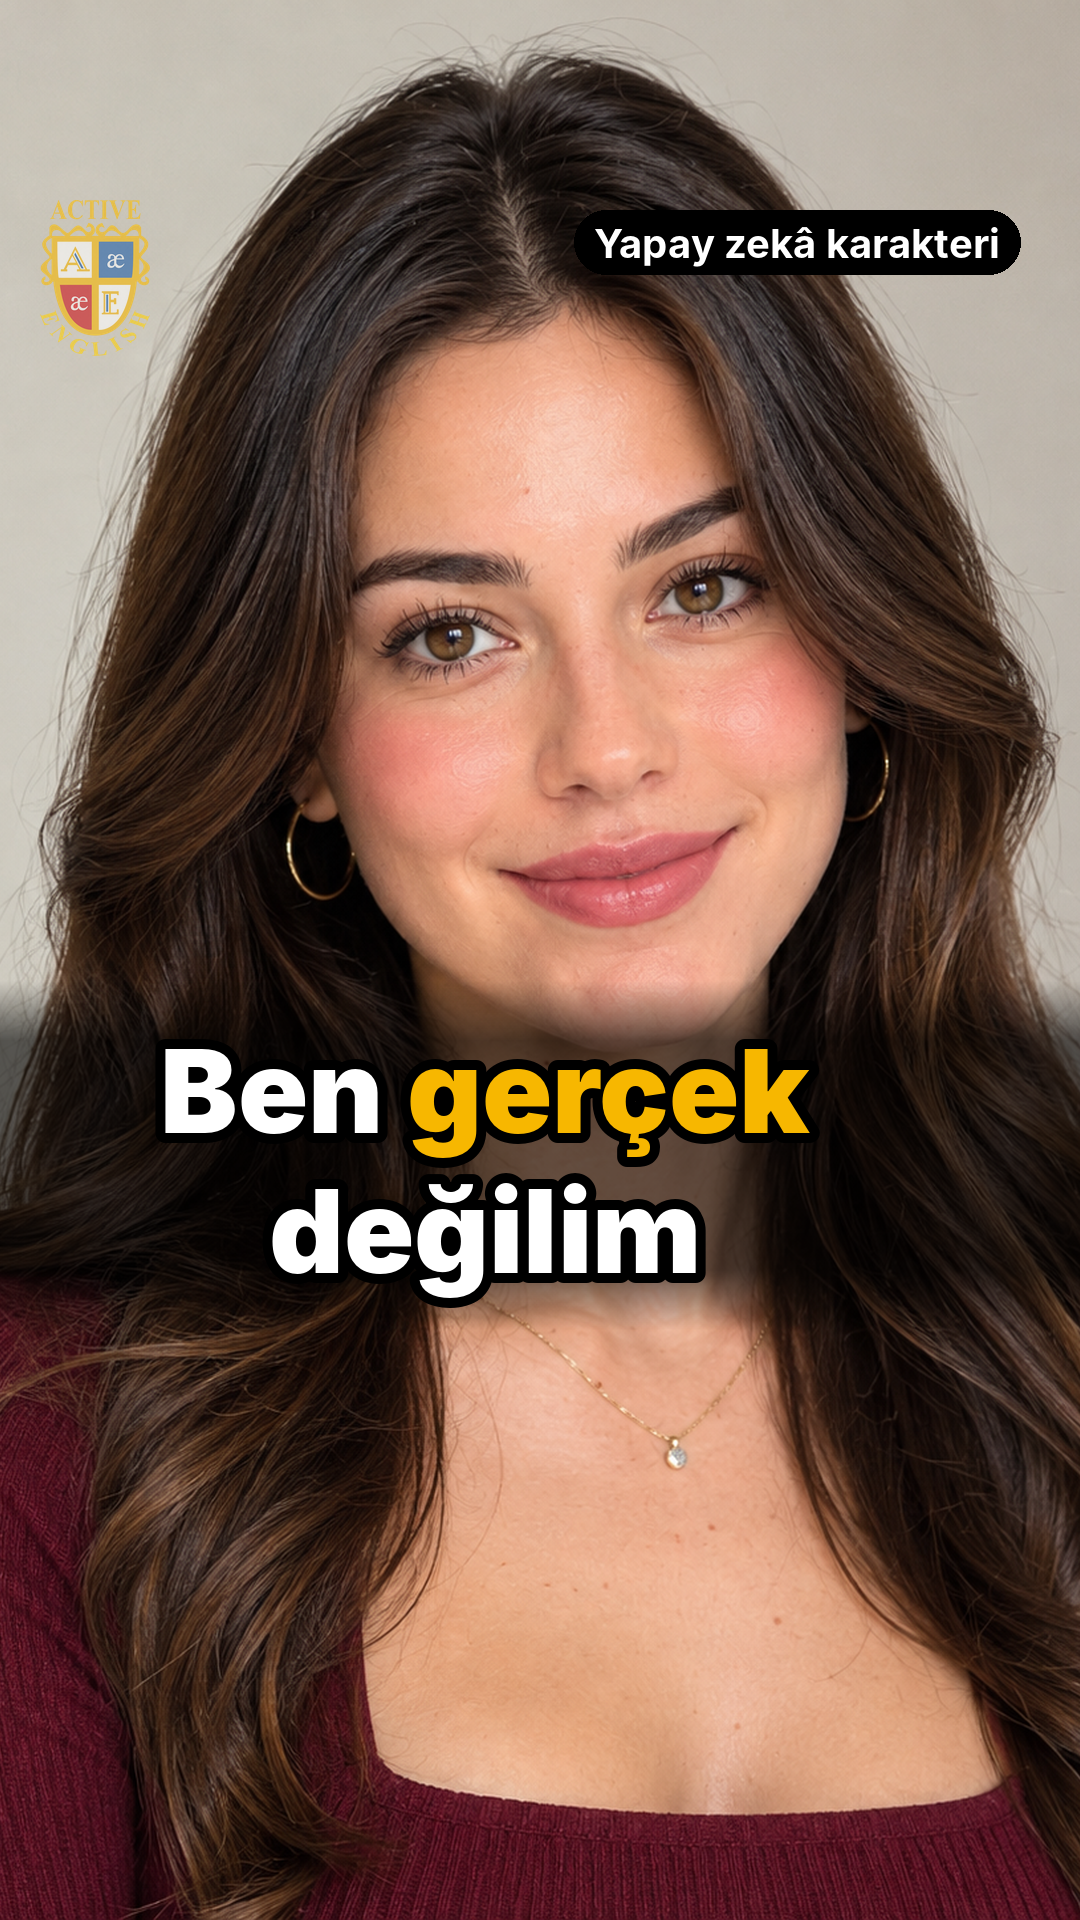
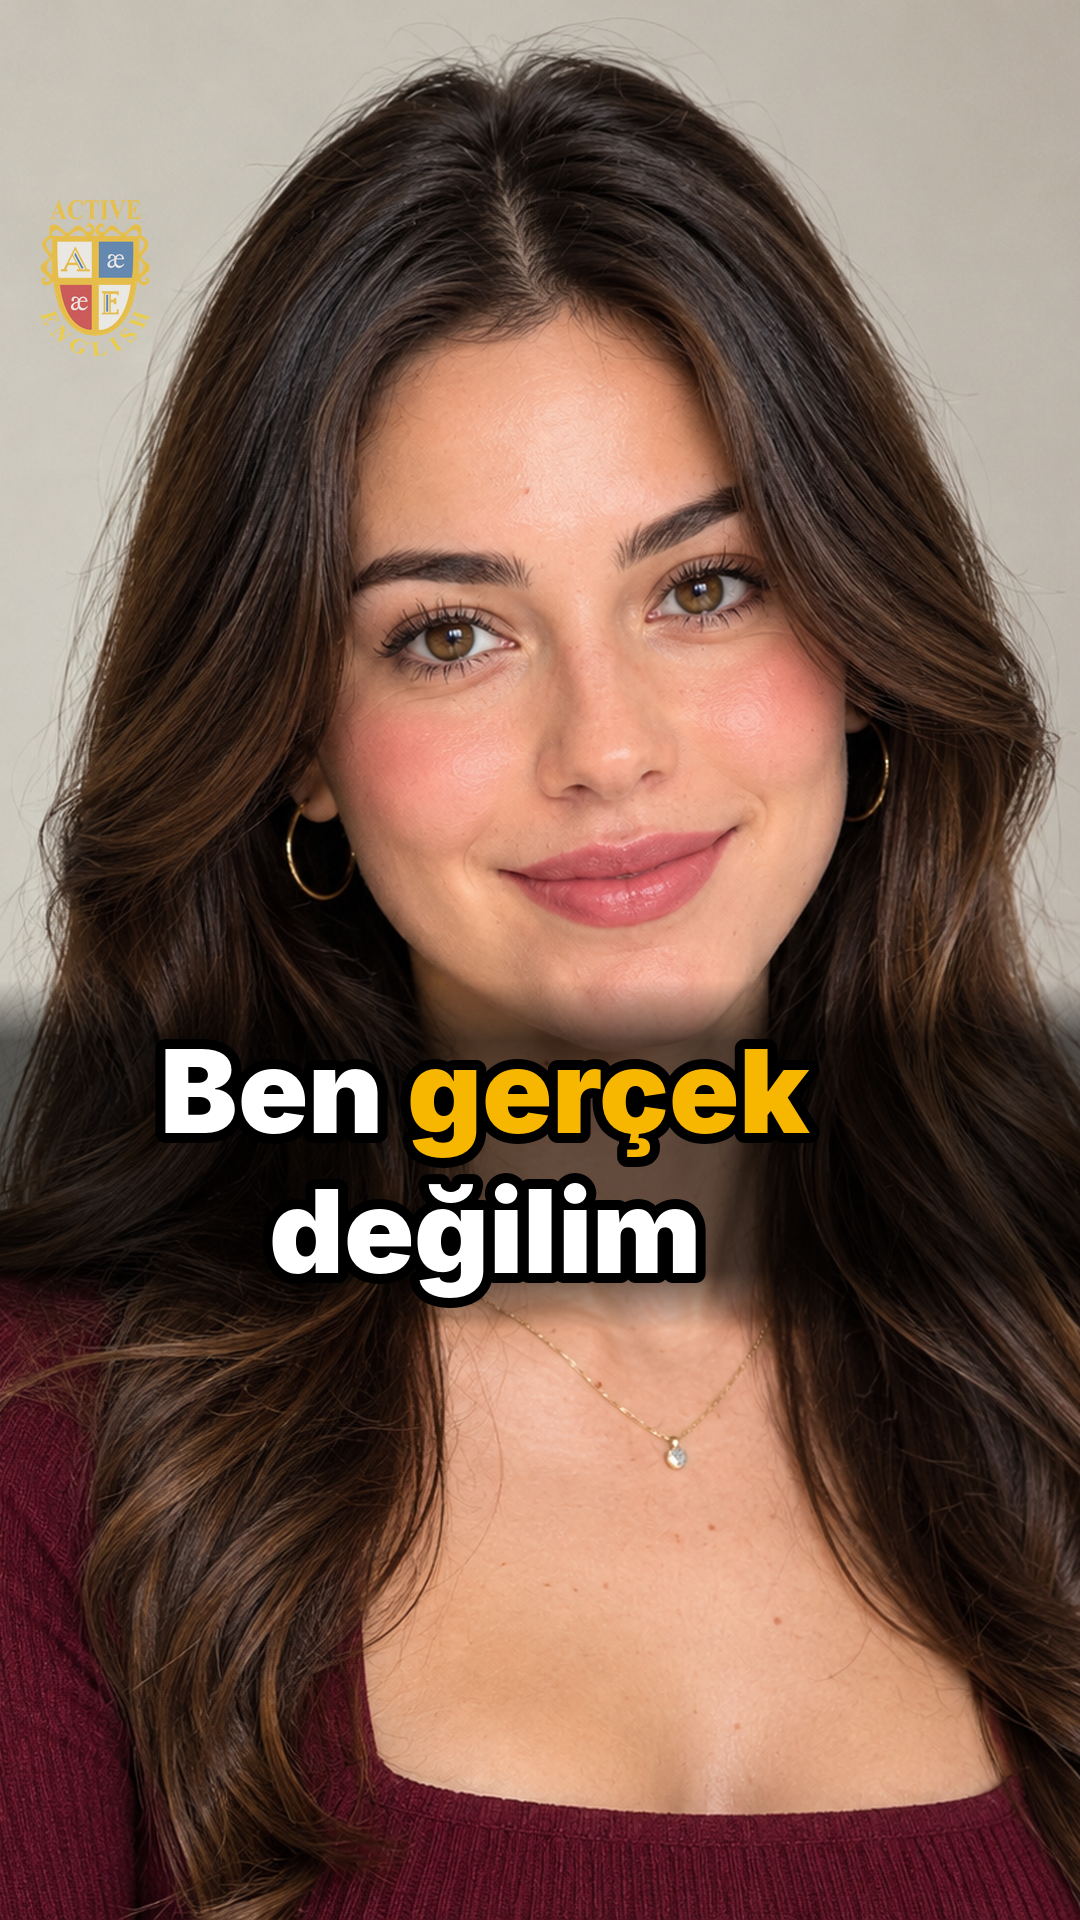
Kapaktan yapay zekâ rozetini kaldır
Claude-Session: https://claude.ai/code/session_0135naBdafeis2ns5kSmYFgu

Changed region(s): [[0.5194, 0.0938, 0.9472, 0.1562]]

diff --git a/videolar/01-zeynep-ben-gercek-degilim/senaryo.md b/videolar/01-zeynep-ben-gercek-degilim/senaryo.md
@@ -10,12 +10,12 @@
 - **A)** Ekran: "Ben gerçek değilim 🤖" / Söz: "Ben gerçek değilim."
 - **B)** Ekran: "'I am agree' diyorsan dur ✋" / Söz: "'I am agree' diyorsan, bu video senin için."
 - **C)** Ekran: "Bir yapay zekâ sana İngilizce öğretse?" / Söz: "Bir yapay zekâ sana İngilizce hatanı söylese kızar mısın?"
-- **İlk kare:** Zeynep yakın plan, gülümseyerek kameraya bakıyor; sağ üstte "Yapay zekâ karakteri" rozeti.
+- **İlk kare:** Zeynep yakın plan, gülümseyerek kameraya bakıyor.
 
 ## Saniye saniye
 | Sn | Görüntü / değişim | Ekran yazısı | Ses |
 |---|---|---|---|
-| 0–1,5 | Zeynep yakın plan, rozet | Ben **gerçek** değilim 🤖 | Z: "Ben gerçek değilim." |
+| 0–1,5 | Zeynep yakın plan | Ben **gerçek** değilim 🤖 | Z: "Ben gerçek değilim." |
 | 1,5–3,5 | Glitch geçişi, hafif yakınlaşma | Ama bu hata **çok gerçek** | Z: "Ama birazdan yapacağın İngilizce hata çok gerçek." · glitch SFX |
 | 3,5–6 | Kesme: ekranın üst yarısı grafik kart, Zeynep alt yarıda | I **am** agree ❌ | Z: "Toplantıda, derste, sohbette: I am agree." · buzzer |
 | 6–8 | Kart değişir | **agree** = katılmak (fiil) | Z: "Agree zaten bir fiil. Başına 'am' gelmez." |
